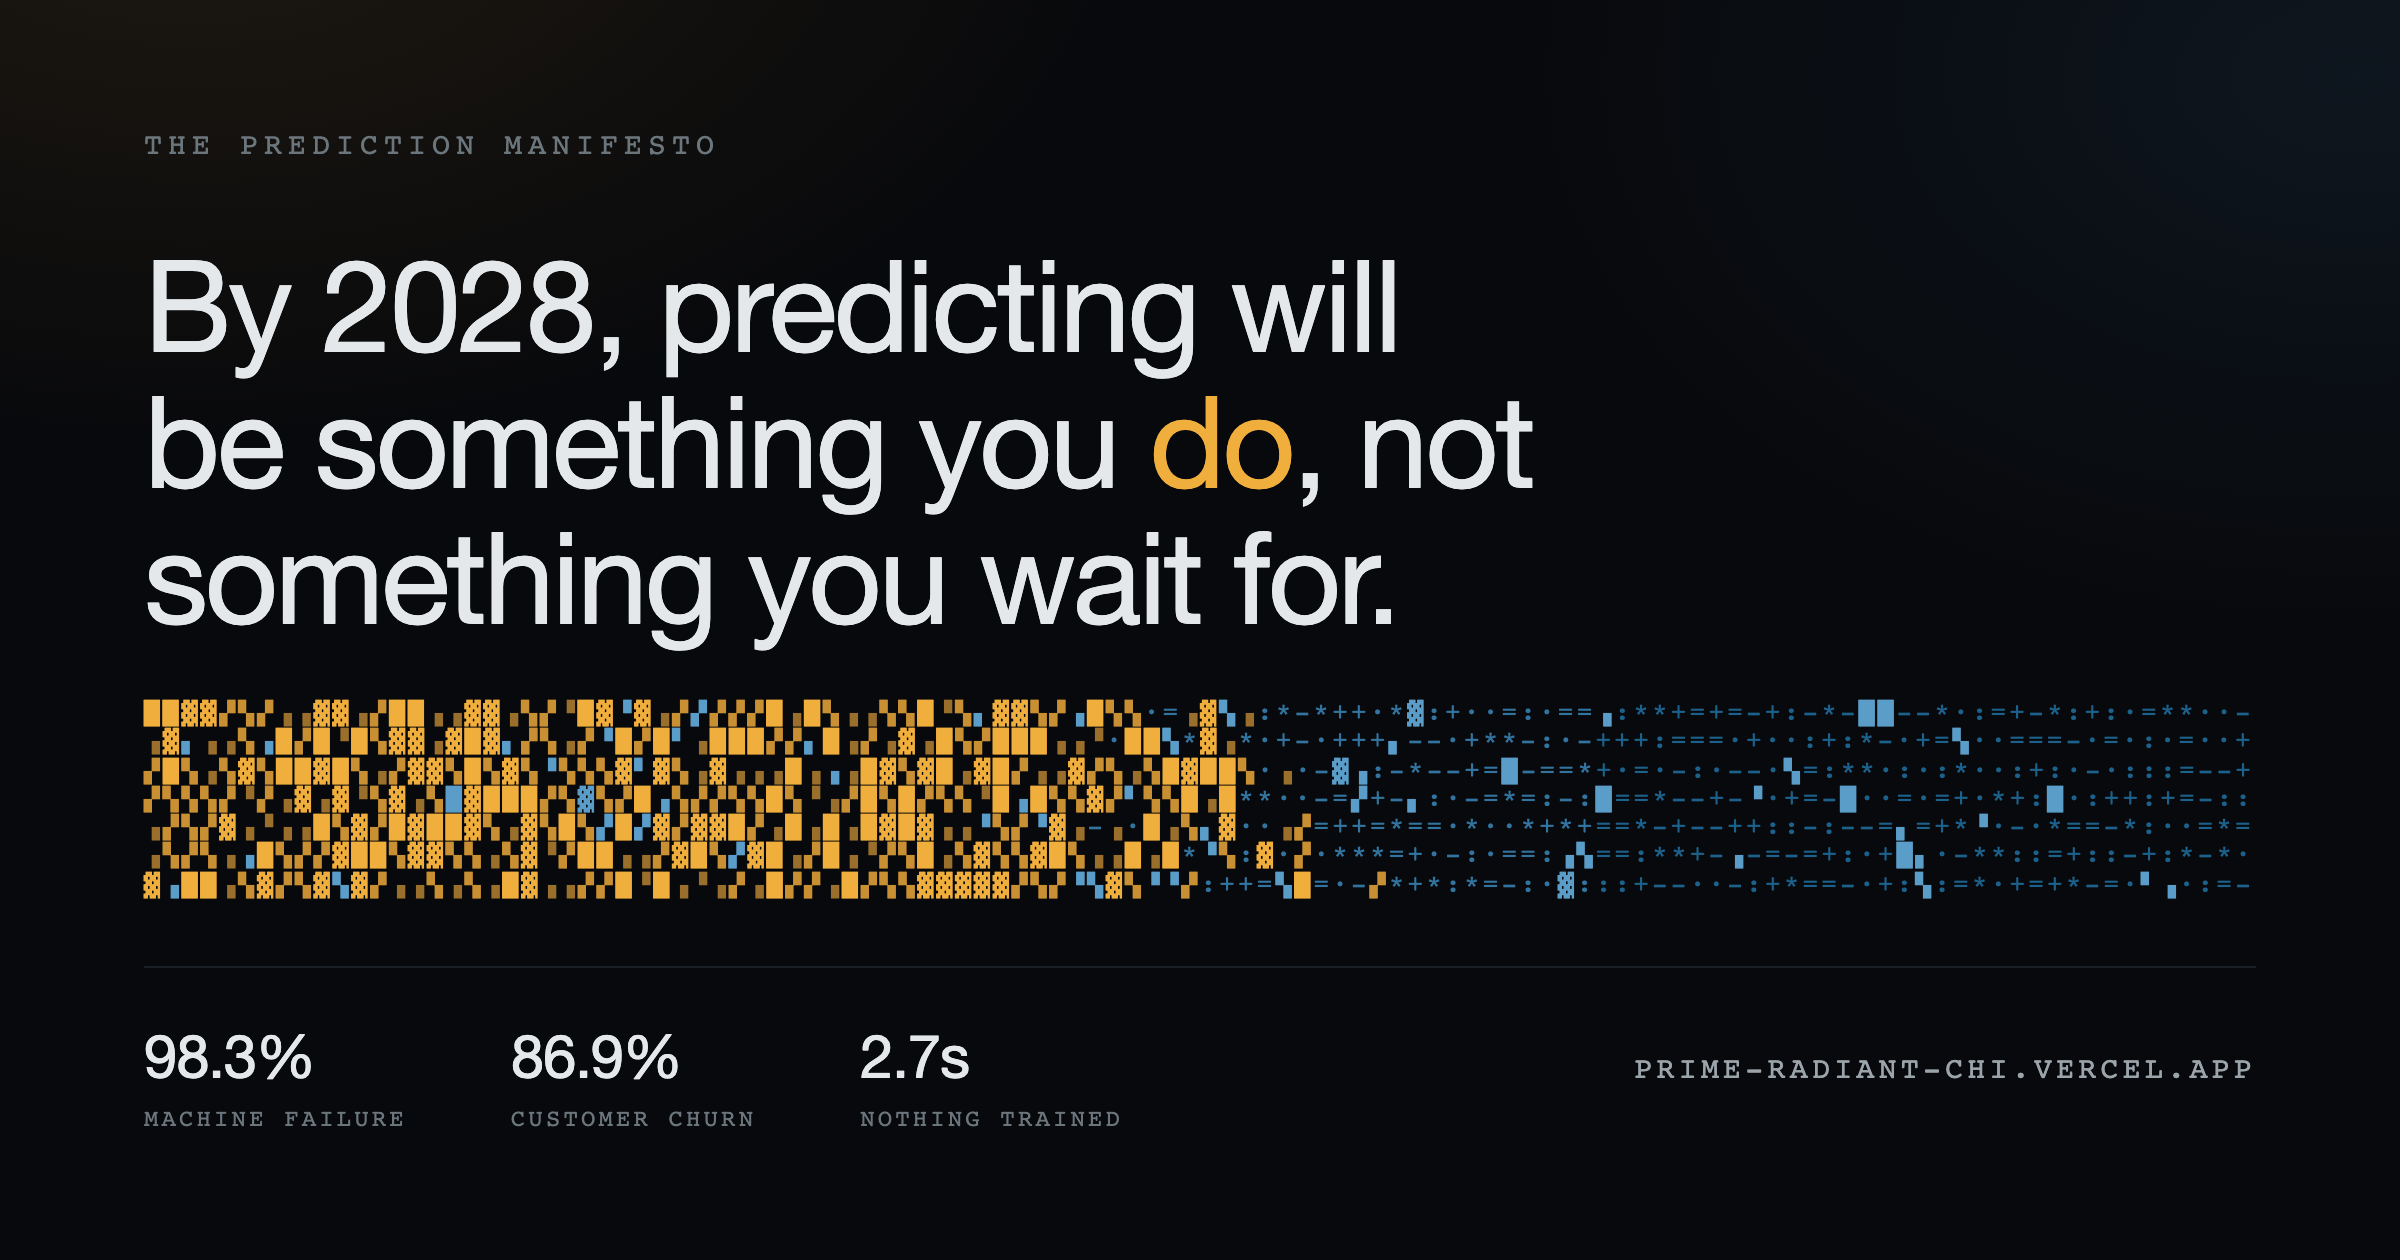
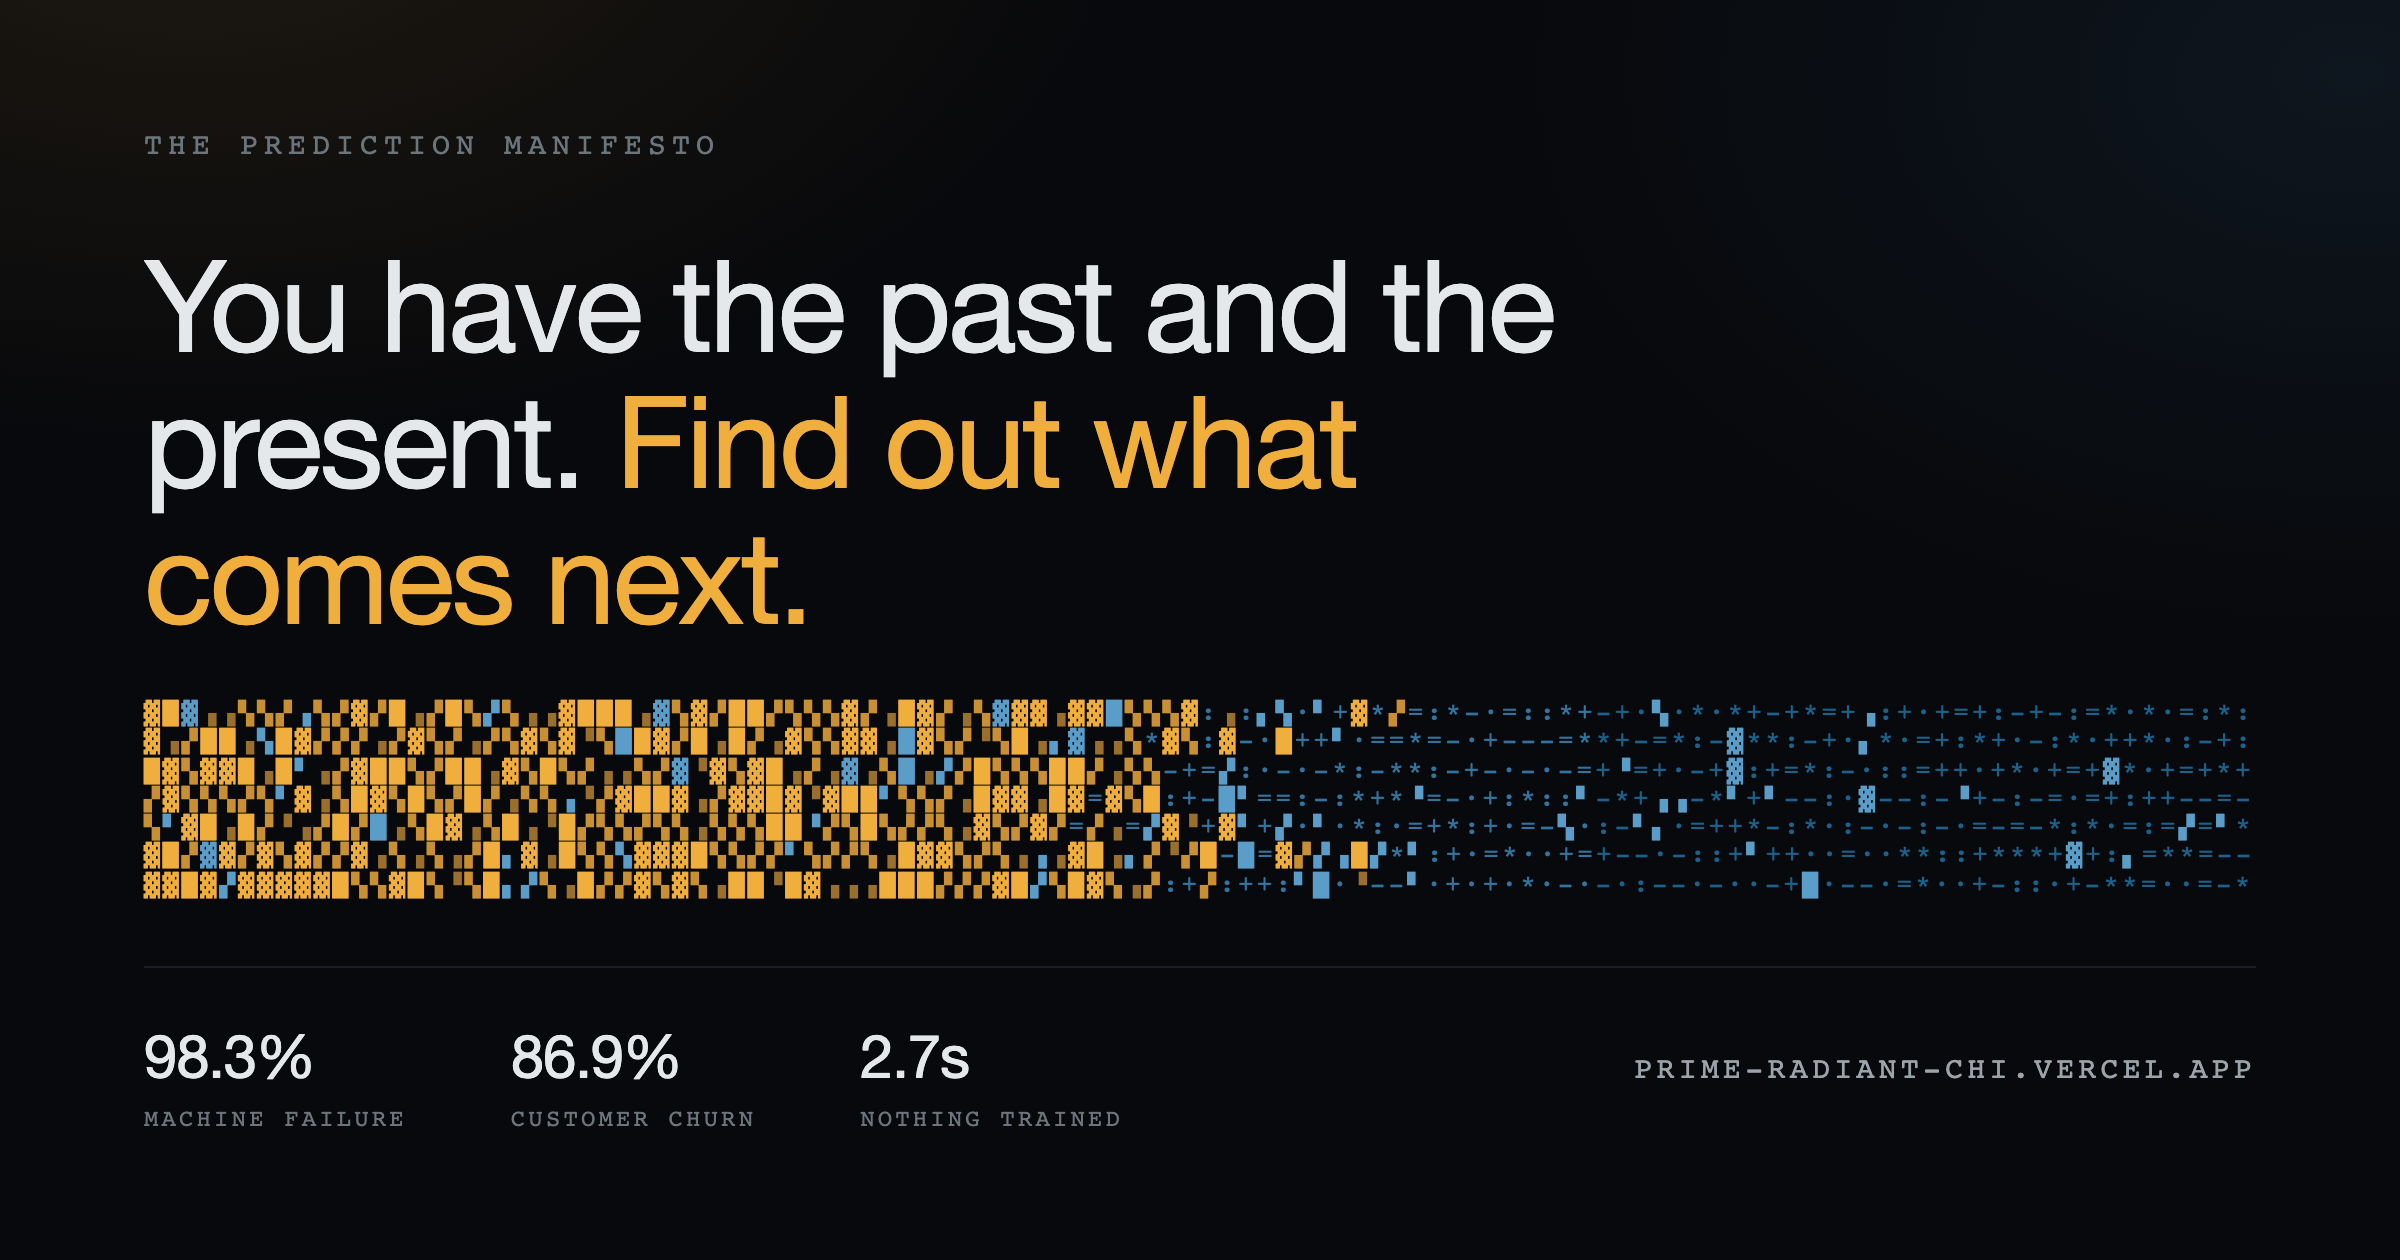
New hero: name what the reader has, and what they get
The old headline was a claim about 2028, which needs the manifesto's argument
underneath it to be more than a slogan. Above a live animation it did two
unhelpful things: competed with the picture for attention, and promised
something the homepage does not substantiate. That claim stays in the manifesto,
where it is argued.

The homepage headline now names the reader's situation and the payoff. Past and
present against what comes next maps onto the field beside it, known on one side
and unknown on the other, without describing it, so copy and picture reinforce
instead of repeating. The accent sits on the second clause, which is also the
colour the field uses for answered.

The second sentence takes its own line: the two clauses are a contrast, and set
inline the accent phrase broke mid-sentence at most widths.

The preview card is regenerated and its tagline comes from the same constant as
the page, so a share can no longer quote a line the site has stopped saying.

Known trade: this frames the product as forecasting, which fits three of the
four benchmarks but not card fraud, and not tabular classification that has no
future in it.

Changed region(s): [[0.0625, 0.1857, 0.6562, 0.5262], [0.0625, 0.5571, 0.9375, 0.7119]]

diff --git a/app/page.tsx b/app/page.tsx
@@ -42,11 +42,13 @@ export default function Home() {
         <Reveal>
           <p className="eyebrow mb-6">The Prediction Manifesto</p>
           <h1 className="text-[2.1rem] leading-[1.1] tracking-[-0.022em] sm:text-[2.6rem] lg:text-[3rem]">
-            By 2028, predicting will be something you{" "}
-            <span className="text-accent">do</span>, not something you wait for.
+            You have the past and the present.{" "}
+            {/* Own line: the two clauses are a contrast, and inline the accent
+                phrase broke mid-sentence at most widths. */}
+            <span className="block text-accent">Find out what comes next.</span>
           </h1>
           <p className="mt-7 max-w-[38ch] text-[1.0625rem] text-ink-soft">
-            Bring the table you already have. Point at the column you are missing.
+            Bring the table as it is. Point at the column you are missing.
           </p>
           <p className="mt-4 max-w-[40ch] text-[0.9375rem] text-muted">
             The rows where you know the answer teach it. The rows where the cell is empty

diff --git a/app/layout.tsx b/app/layout.tsx
@@ -12,10 +12,9 @@ const newsreader = Newsreader({
   weight: ["300", "400", "500"],
 });
 
-const TAGLINE =
-  "By 2028, predicting will be something you do, not something you wait for.";
+const TAGLINE = "You have the past and the present. Find out what comes next.";
 const BLURB =
-  "Bring a table. Point at the column you are missing. No training run, no feature engineering.";
+  "Bring the table as it is. Point at the column you are missing. No training run, no feature engineering.";
 
 export const metadata: Metadata = {
   // Without this, Next emits a relative og:image path and crawlers that require
